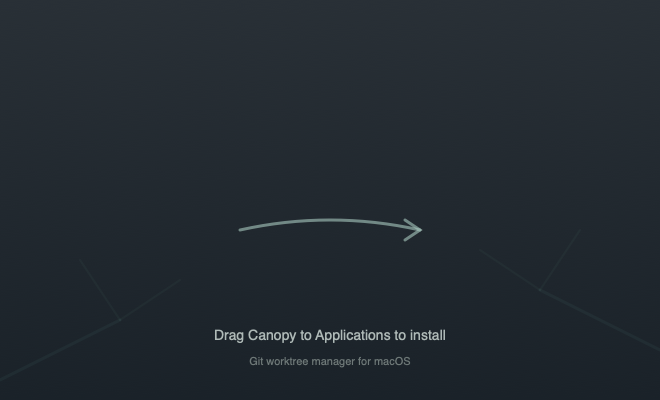
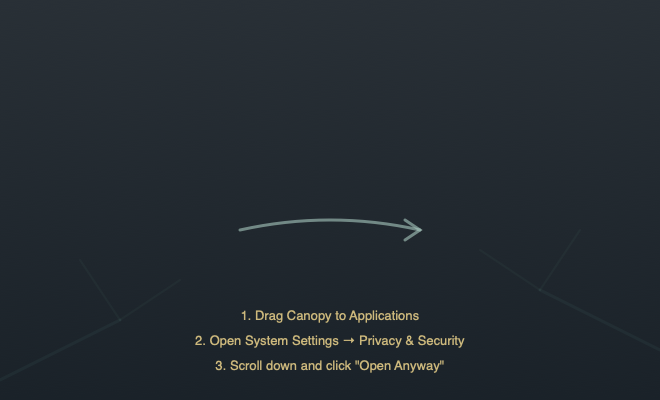
Fix run command failing in packaged DMG installation
ProcessManager was not setting PATH environment, causing commands like
npm, node, claude to fail when running from the packaged app (which has
minimal macOS GUI PATH). Now uses the same PATH setup as ProcessRunner.

Also improves build process:
- Add ad-hoc code signing step for Gatekeeper compatibility
- Update DMG background with clearer installation instructions

Changed region(s): [[0.2727, 0.78, 0.7273, 0.87], [0.303, 0.9, 0.6667, 0.93]]

diff --git a/app/Canopy/Tools/IconGenerator/Sources/DMGBackground/main.swift b/app/Canopy/Tools/IconGenerator/Sources/DMGBackground/main.swift
@@ -126,13 +126,11 @@ func drawText(_ text: String, at point: CGPoint, fontSize: CGFloat, color: CGCol
     context.restoreGState()
 }
 
-// Instructional text at bottom
-let textColor = CGColor(red: 0.7, green: 0.75, blue: 0.73, alpha: 0.9)
-drawText("Drag Canopy to Applications to install", at: CGPoint(x: width / 2, y: 340), fontSize: 14, color: textColor)
-
-// Subtitle
-let subtitleColor = CGColor(red: 0.5, green: 0.55, blue: 0.53, alpha: 0.7)
-drawText("Git worktree manager for macOS", at: CGPoint(x: width / 2, y: 365), fontSize: 11, color: subtitleColor)
+// Installation instructions (amber color for visibility)
+let instructionColor = CGColor(red: 0.85, green: 0.75, blue: 0.45, alpha: 0.9)
+drawText("1. Drag Canopy to Applications", at: CGPoint(x: width / 2, y: 320), fontSize: 13, color: instructionColor)
+drawText("2. Open System Settings \u{2192} Privacy & Security", at: CGPoint(x: width / 2, y: 345), fontSize: 13, color: instructionColor)
+drawText("3. Scroll down and click \"Open Anyway\"", at: CGPoint(x: width / 2, y: 370), fontSize: 13, color: instructionColor)
 
 // Create image from context
 guard let image = context.makeImage() else {

diff --git a/app/Canopy/Sources/Canopy/Services/ProcessManager.swift b/app/Canopy/Sources/Canopy/Services/ProcessManager.swift
@@ -33,6 +33,15 @@ final class ProcessManager {
         process.arguments = ["-c", command]
         process.currentDirectoryURL = URL(fileURLWithPath: worktreePath)
 
+        // Build PATH: custom path (if set) + common locations
+        var paths = ["/opt/homebrew/bin", "/usr/local/bin", "/usr/bin", "/bin", "/usr/sbin", "/sbin"]
+        if let customPath = UserDefaults.standard.string(forKey: "canopy.customCLIPath"), !customPath.isEmpty {
+            paths.insert(customPath, at: 0)
+        }
+        process.environment = ProcessInfo.processInfo.environment.merging([
+            "PATH": paths.joined(separator: ":")
+        ]) { _, new in new }
+
         // Set up termination handler to clean up state
         process.terminationHandler = { [weak self] _ in
             DispatchQueue.main.async {
